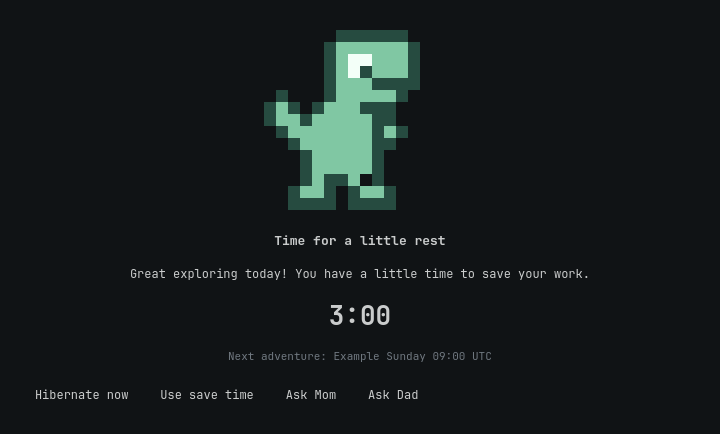
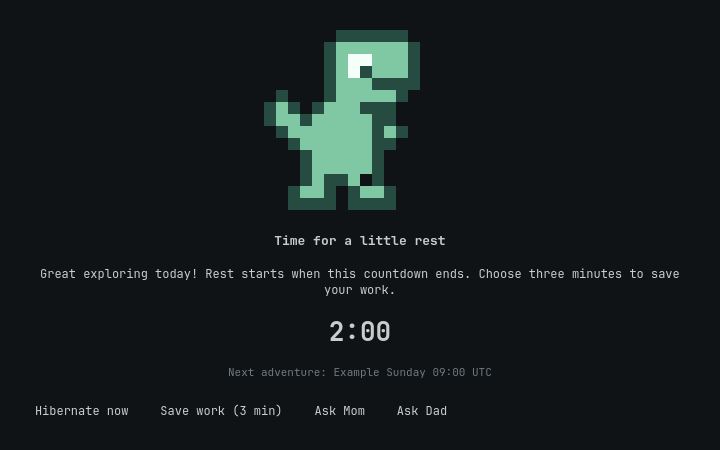
Set Dino preview idle expiry to two minutes with one save period

diff --git a/guardian/DinoCard.qml b/guardian/DinoCard.qml
@@ -43,7 +43,7 @@ Rectangle {
             color: Color.notifications.text
             font { family: Style.font.family; pixelSize: Style.font.body }
             text: card.state.phase === "saving" ? "Save your files and finish up before your PC rests." :
-                  card.state.phase === "time-up" ? "Great exploring today! You have a little time to save your work." :
+                  card.state.phase === "time-up" ? "Great exploring today! Rest starts when this countdown ends. Choose three minutes to save your work." :
                   card.state.phase === "warning" ? "You have a few minutes left. Start saving your work." :
                   card.state.phase === "hibernate-error" ? "Your PC could not hibernate. Please ask a parent for help." :
                   "Today's exploring is finished. Your saved files are still on this PC."
@@ -74,7 +74,7 @@ Rectangle {
                 delegate: Ui.Button {
                     required property string modelData
                     visible: DinoFlow.permitted(card.state, modelData)
-                    text: modelData === "sleep" ? "Hibernate now" : modelData === "save" ? "Use save time" : modelData === "ask-mom" ? "Ask Mom" : "Ask Dad"
+                    text: modelData === "sleep" ? "Hibernate now" : modelData === "save" ? "Save work (3 min)" : modelData === "ask-mom" ? "Ask Mom" : "Ask Dad"
                     onClicked: card.actionRequested(modelData)
                 }
             }

diff --git a/guardian/preview.qml b/guardian/preview.qml
@@ -10,7 +10,7 @@ Window {
     visible: true
     title: "Family Lab Dino - design preview only"
     color: Color.notifications.background
-    property var previewState: ({version: 1, phase: "time-up", remaining: 180,
+    property var previewState: ({version: 1, phase: "time-up", remaining: 120,
                                 nextLabel: "Example schedule - Sunday 09:00 local time", helpers: ["mom", "dad"]})
     Timer {
         interval: 1000
@@ -34,8 +34,7 @@ Window {
             width: parent.width
             state: previewState
             onActionRequested: function(action) {
-                if (action === "save") previewState = Object.assign({}, previewState, {phase: "saving"})
-                if (action === "sleep") previewState = Object.assign({}, previewState, {phase: "blocked", remaining: 0})
+                previewState = DinoFlow.advance(previewState, action)
             }
         }
     }

diff --git a/guardian/Flow.js b/guardian/Flow.js
@@ -27,8 +27,14 @@ function permitted(state, action) {
 function advance(state, action) {
     if (!permitted(state, action)) throw new Error("Action unavailable")
     var next = JSON.parse(JSON.stringify(state))
-    if (action === "save") next.phase = "saving" // Never add time or change the deadline.
-    if (action === "sleep") next.phase = "blocked" // Preview transition only; no power call.
+    if (action === "save") {
+        next.phase = "saving"
+        next.remaining = 180 // One explicit save period; unavailable after this transition.
+    }
+    if (action === "sleep") {
+        next.phase = "blocked" // Preview transition only; no power call.
+        next.remaining = 0
+    }
     return next
 }
 function tick(state, elapsed) {

diff --git a/tests/qml/dino.qml b/tests/qml/dino.qml
@@ -22,7 +22,7 @@ ShellRoot {
             id: card
             anchors.centerIn: parent
             width: 720
-            state: ({version: 1, phase: "time-up", remaining: 180, nextLabel: "Example Sunday 09:00 UTC", helpers: ["mom", "dad"]})
+            state: ({version: 1, phase: "time-up", remaining: 120, nextLabel: "Example Sunday 09:00 UTC", helpers: ["mom", "dad"]})
         }
     }
     Timer {

diff --git a/docs/DINO_FLOW.md b/docs/DINO_FLOW.md
@@ -6,7 +6,7 @@ This change implements the **presentation prototype and next-permitted-time fore
 
 - Original mint-green pixel dinosaur drawn in QML code, inspired by a friendly baby-dinosaur style. No external image, remote asset or tracking.
 - Theme-bound card states: five-minute warning, time-up/save prompt, saving countdown, blocked and hibernation error. Fixed action signals only: sleep, save, ask-mom and ask-dad.
-- A pure presentation model: one save transition, no extra seconds added, automatic expiry even without a click, and no second save action after entering saving/blocked. This model is not an authorization boundary.
+- A pure presentation model: a two-minute no-response countdown, one explicit three-minute save period from the click, automatic expiry, and no second save action after entering saving/blocked. Asking a parent leaves the countdown running; only an approved exception should change real permission. Choosing save near the end can make the total finish-up period almost five minutes. This model is not an authorization boundary.
 - Policy service `next_allowed` metadata for a blocked learner, using its actual timezone, windows, daily totals and already-approved extra minutes. Real UTC-minute iteration handles missing/repeated local times at DST. The search covers the next eight days; no result is shown as “ask a parent,” not an invented reopening time. Pending requests and future policy changes cannot be predicted.
 - New policy defaults use a 180-second grace. **Existing policies retain their configured grace**; this does not migrate a family's allowance or modify installed files.
 - Read-only `parental/family-lab-policy hibernation-check` probes logind's CanHibernate. Even “yes” returns `ready_for_family_lab: false`: a real driver/swap/resume test and secure guard integration are still required. It never calls Hibernate, systemctl hibernate, suspend or shutdown.
@@ -29,12 +29,18 @@ The last test uses an isolated temporary home/offscreen backend, imports the ins
 
 ## Required next integration
 
-1. Persist a root-authoritative finish episode/deadline. The three-minute save action must not renew that deadline, and restart/resume/repeated clicks must not create another grant. Parent-approved exceptions remain separate.
+1. Persist a root-authoritative finish episode with a two-minute initial deadline and one available save action. That action may replace the initial deadline with three minutes from its first accepted click, once only. Restart/resume/repeated clicks must not create another grant. Parent-approved exceptions remain separate.
 2. Establish a protected lock/resume surface and a restricted fresh-login path. An ordinary fullscreen QML window is dismissible and not enforcement. Authentication must use the real PAM/lock integration; do not collect passwords in this prototype. A correct password must not expose desktop content while policy remains blocked.
 3. Add a narrowly authenticated learner action channel for the selected subject. A learner may acknowledge/save/request help, never change limits, approve their own exception or invoke arbitrary root power commands. Display actions only for actually enrolled helper routes.
 4. Replace termination only behind an explicit verified end-action choice. On the child's dedicated PC, lock before hibernating, then check policy again before unlocking on resume. Do not close the session first. If hibernation fails, retain the protected surface and report the error; no silent poweroff fallback. Never hibernate Mom's adult workstation as a side effect of her helper role.
 5. Test actual GTX 1050 Ti hibernate/resume, encrypted swap/resume configuration, normal password authentication, screen privacy during transitions, PC waking before/after permitted time, offline parents, clock/DST changes and local admin recovery. CanHibernate alone is insufficient.
 6. Implement the matching website page separately through a reviewed browser integration. Chromium URLBlocklist remains authoritative until a tested adapter can present the friendly page without bypassing enforcement or inspecting page contents/search terms. No custom website page is implemented here.
+
+## Planned wake behavior
+
+Before sleeping, the protected guard must already cover the learner session. Waking during blocked hours must return to that guard, showing the next permitted date/time, Hibernate now and the enrolled Ask Mom/Dad actions. A correct account password confirms identity; it does not grant more screen time. The desktop must remain concealed until both authentication and current policy allow access. Resume is an existing session, so a fresh-login PAM check alone does not provide this.
+
+The same finish episode survives wake/restart: waking must not provide another three-minute save option. Parent approval can allow an exception. If the next session is already permitted, normal authentication can restore access. This behavior, including actual automatic hibernation, still requires the protected guard and hardware acceptance tests above; the preview only changes its displayed phase.
 
 ## Wording and guarantees
 
